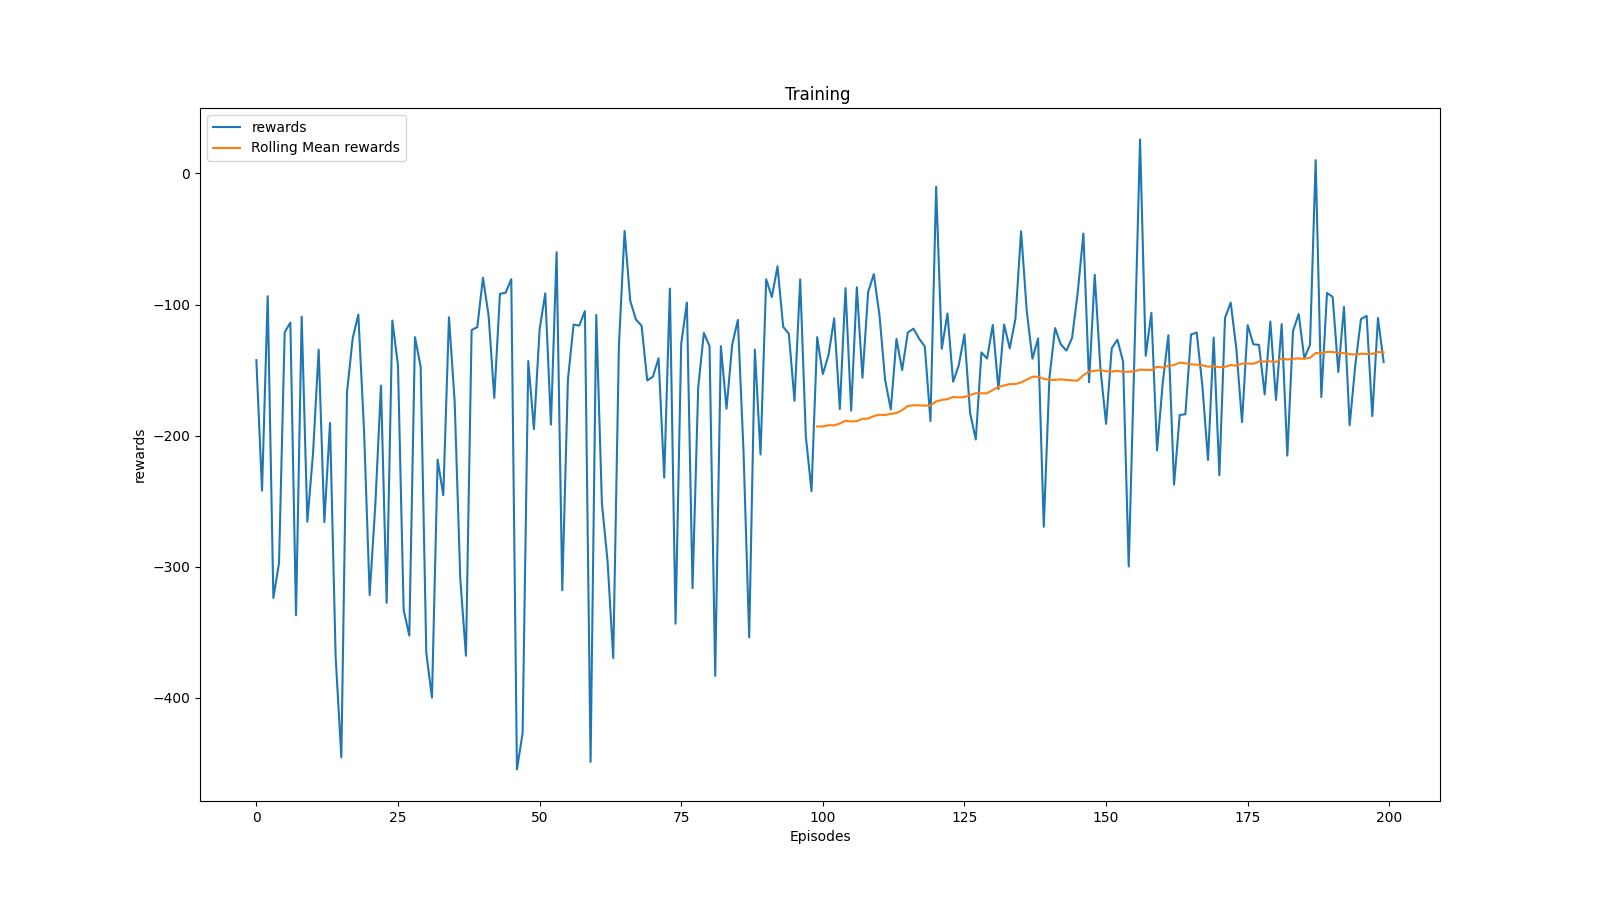
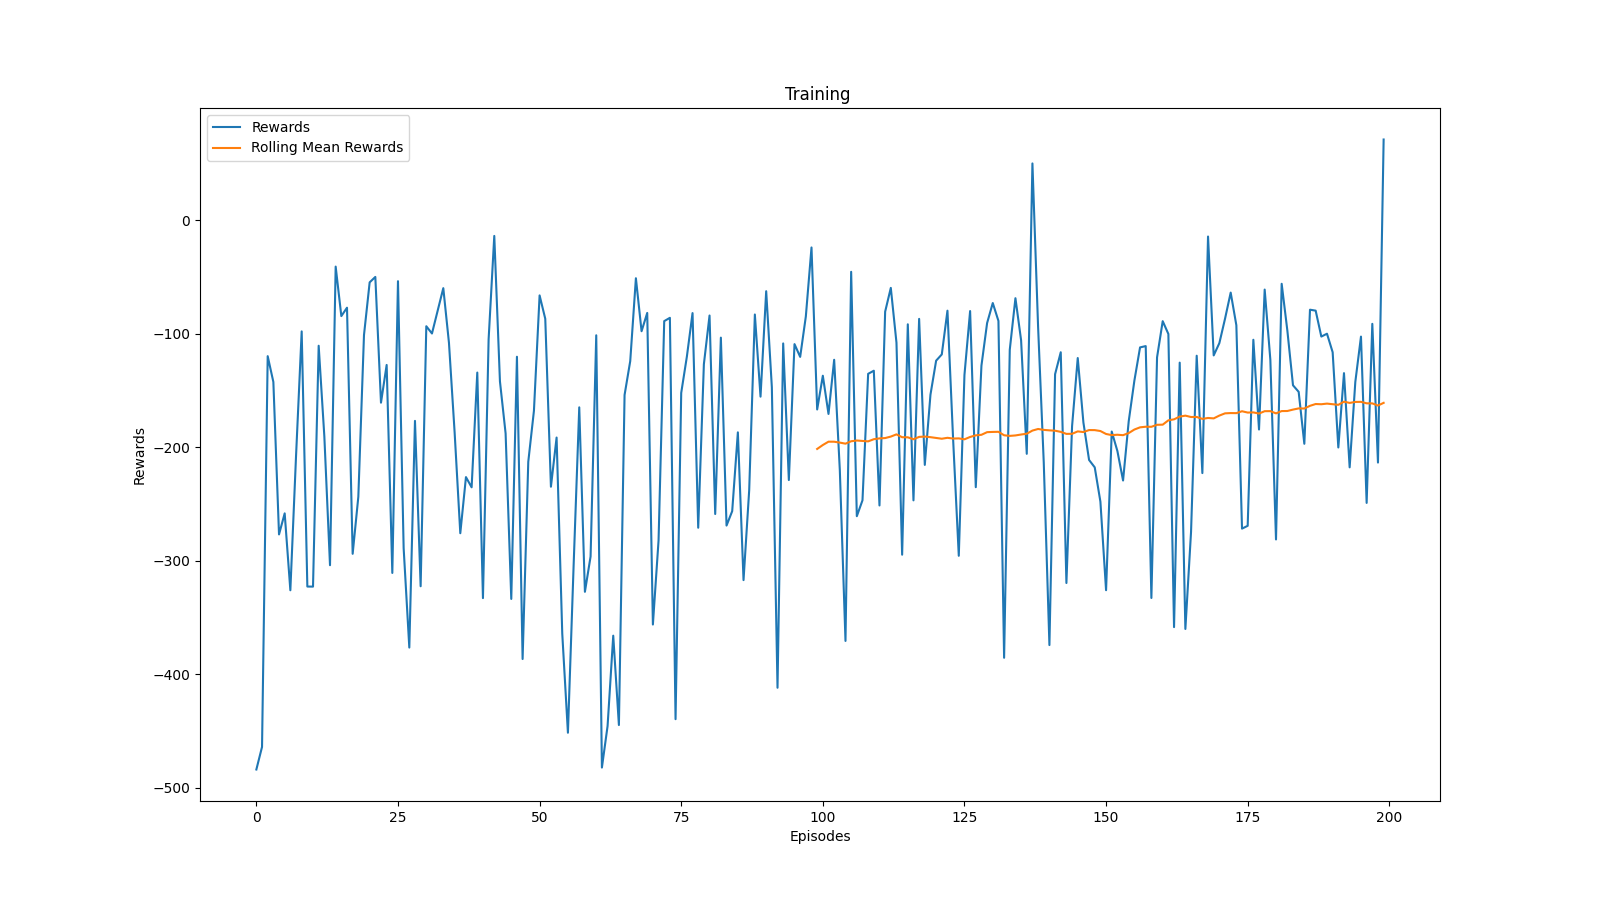
Optimized for training on GPU, add simple replay buffer

diff --git a/src/trainer/reinforce_trainer.py b/src/trainer/reinforce_trainer.py
@@ -1,6 +1,6 @@
 from trainer import Trainer
 from agent import PolicyAgent
-from config import device, checkpoint_path, video_record_period, visualizer_path
+from config import device, checkpoint_path, video_record_period, visualizer_path, update_interval, save_interval
 from tqdm.auto import tqdm
 import torch
 import gymnasium as gym
@@ -26,48 +26,60 @@ class REINFORCETrainer(Trainer):
         self.device = device
         self.info_frequency = info_frequency
         self.checkpoint_path = checkpoint_path_
+        self.update_interval = update_interval
+        self.save_interval = save_interval
 
 
     def train(self):
-        policies = []
+        
+        returns = torch.empty(0, dtype=torch.float64, device=device)
+        log_probs = torch.empty(0, dtype=torch.float64, device=device)
         for episode in tqdm(range(self.n_episodes)):
             state, _ = self.env.reset()
-
             rewards = []
-            log_probs = []
-
             done = False
+
             while not done:
                 state_tensor = torch.tensor(state, dtype=torch.float32,
-                                            device=self.device)
+                                            device=self.device).to(device)
                 action, log_prob_action = self.agent.get_action(state_tensor)
                 next_state, reward, terminated, truncated, _ = self.env.step(action.cpu().item())
 
-                log_probs.append(log_prob_action)
+                log_probs = torch.concatenate((log_probs,log_prob_action))
                 rewards.append(reward)
 
                 done = terminated or truncated
                 state = next_state
 
-            loss = self.calculate_loss(rewards, log_probs)
-            self.optimizer.zero_grad()
-            loss.backward()
-            self.optimizer.step()
-            policies.append(self.agent.policy.state_dict())
+
+            episode_returns = self.calculate_returns(rewards)
+            returns = torch.concatenate((returns,episode_returns))
+            if (episode+1) % self.update_interval==0:
+                loss = self.calculate_loss(returns, log_probs)
+                self.optimizer.zero_grad()
+                loss.backward()
+                self.optimizer.step()
+
+                returns = torch.empty(0, dtype=torch.float64, device=device)
+                log_probs = torch.empty(0, dtype=torch.float64, device=device)
+
             if (episode + 1) % self.info_frequency == 0:
                 print(f'Episode {episode}, Total Reward: {sum(rewards):.2f}')
+
+            if (episode + 1) % self.save_interval == 0:
                 torch.save({
                     'episode': episode,
                     'model_state_dict': self.agent.policy.state_dict(),
                     'optimizer_state_dict': self.optimizer.state_dict(),
                 }, f'{self.checkpoint_path}/checkpoint_{episode}.tar')
+
+        last_policy = self.agent.policy.state_dict()
         self.env.close()
-        return policies[-1], policies, self.env.return_queue, self.env.length_queue
+        return last_policy, self.env.return_queue, self.env.length_queue
 
 
-    def calculate_loss(self, rewards, log_probs):
-        returns = self.calculate_returns(rewards)
-        log_probs = torch.stack(log_probs)
+    def calculate_loss(self, returns, log_probs):
+        # log_probs = torch.stack(log_probs)
         loss = -(log_probs * returns).sum() ### Is it really minus?
         return loss
 

diff --git a/src/agent/policy_agent.py b/src/agent/policy_agent.py
@@ -1,17 +1,16 @@
 from policy import Policy
 
 from agent import Agent
-import gymnasium as gym
-import torch
+from config import device
 
 
 class PolicyAgent(Agent):
     def __init__(self, policy: Policy):
-        self.policy = policy
+        self.policy = policy.float().to(device)
 
     def get_action(self, observation):
         distribution = self.policy(observation)
         action = distribution.sample()
         action_log_probability = distribution.log_prob(action)
-        return action, action_log_probability
+        return action, action_log_probability.unsqueeze(0)
 

diff --git a/src/main.py b/src/main.py
@@ -29,7 +29,7 @@ if __name__ == "__main__":
                                video_path=visualizer_path,
                                record_period=video_record_period
                                )
-    last_policy, policies, rewards, lengths = trainer.train()
+    last_policy, rewards, lengths = trainer.train()
 
     policy.load_state_dict(last_policy)
     final_agent = PolicyAgent(policy)

diff --git a/src/config.py b/src/config.py
@@ -11,3 +11,5 @@ discount_factor = 0.99
 info_frequency = 100
 rolling_window = 100
 evaluation_time = 20
+update_interval = 1
+save_interval = 10000

diff --git a/README.md b/README.md
@@ -1,1 +1,98 @@
 # LunarLander
+![demo](https://gymnasium.farama.org/_images/lunar_lander.gif)
+
+## Table of Contents
+- [Environment description](#environment-description)
+- [Rewards](#rewards)
+- [Method](#method-applied)
+- [Results](#results)
+
+## Environment description
+### Overview
+
+This environment is a classic rocket trajectory optimization problem. According to Pontryagin’s maximum principle, it is optimal to fire the engine at full throttle or turn it off. This is the reason why this environment has discrete actions: engine on or off.
+
+There are two environment versions: discrete or continuous. The landing pad is always at coordinates (0,0). The coordinates are the first two numbers in the state vector. Landing outside of the landing pad is possible. Fuel is infinite, so an agent can learn to fly and then land on its first attempt.
+
+### Action Space
+
+There are four discrete actions available:
+
+- 0: do nothing
+
+- 1: fire left orientation engine
+
+- 2: fire main engine
+
+- 3: fire right orientation engine
+
+### Observation Space
+
+The state is an 8-dimensional vector: the coordinates of the lander in x & y, its linear velocities in x & y, its angle, its angular velocity, and two booleans that represent whether each leg is in contact with the ground or not.
+
+## Rewards
+
+After every step a reward is granted. The total reward of an episode is the sum of the rewards for all the steps within that episode.
+
+For each step, the reward:
+
+
+
+- is increased/decreased the closer/further the lander is to the landing pad.
+
+- is increased/decreased the slower/faster the lander is moving.
+
+- is decreased the more the lander is tilted (angle not horizontal).
+
+- is increased by 10 points for each leg that is in contact with the ground.
+
+- is decreased by 0.03 points each frame a side engine is firing.
+
+- Starting Stateis decreased by 0.3 points each frame the main engine is firing.
+
+The episode receive an additional reward of -100 or +100 points for crashing or landing safely respectively.
+
+An episode is considered a solution if it scores at least 200 points.
+
+## Method applied
+
+**REINFORCE**
+
+
+REINFORCE is a Monte Carlo-based policy gradient algorithm used in Reinforcement Learning (RL) to optimize a policy directly. REINFORCE algorithm falls under the class of on-policy methods, meaning it updates the policy based on the actions taken during the current policy's execution.
+
+REINFORCE algorithm improves the policy by adjusting the probabilities of actions taken in each state based on the cumulative rewards (or returns) obtained after those actions. Unlike value-based methods, which rely on estimating state-action values, REINFORCE directly learns the policy that maps states to actions, making it well-suited for environments with continuous action spaces or complex tasks where value estimation is challenging.
+
+**The REINFORCE algorithm works in the following steps:**
+
+- **Collect Episodes:** The agent interacts with the environment for a fixed number of steps or until an episode is complete, following the current policy. This generates a trajectory consisting of states, actions, and rewards.
+
+- **Calculate Returns:** For each time step $t$, calculate the return $G_t$, which is the total reward obtained from time $t$ onwards. Typically, this is the discounted sum of rewards:
+
+$$ G_t = \sum_{k=t}^{T} \gamma^{k-t} R_k $$
+
+Where $\gamma$ is the discount factor, $\{T}$ is the final time step of the episode, and $R_k$ is the reward received at time step $k$.
+
+- **Policy Gradient Update:** The policy parameters $θ$ are updated using the following formula:
+
+$$ \theta_{t+1} = \theta_t + \alpha \nabla_{\theta} \log \pi_{\theta}(a_t | s_t) G_t $$
+
+Where:
+
+$\alpha$ is the learning rate.
+
+$\pi_{\theta}(a_t | s_t)$ is the probability of taking action $a_t$ at state  $s_t$, according to the policy.
+
+$G_t$ is the return or cumulative reward obtained from time step $t$ onwards.
+
+The gradient $\nabla_{\theta} \log \pi_{\theta}(a_t | s_t)$ represents how much the policy probability for action atat at state stst should be adjusted based on the obtained return.
+
+- **Repeat:** This process is repeated for several episodes, iteratively updating the policy in the direction of higher rewards.
+
+
+
+## Results
+![demo](https://github.com/user-attachments/assets/5507156b-c9aa-45e3-bde1-5ea017c9176d)
+![Results](https://github.com/MikhailovBair/LunarLander/blob/main/results/img/rewards.png)
+
+
